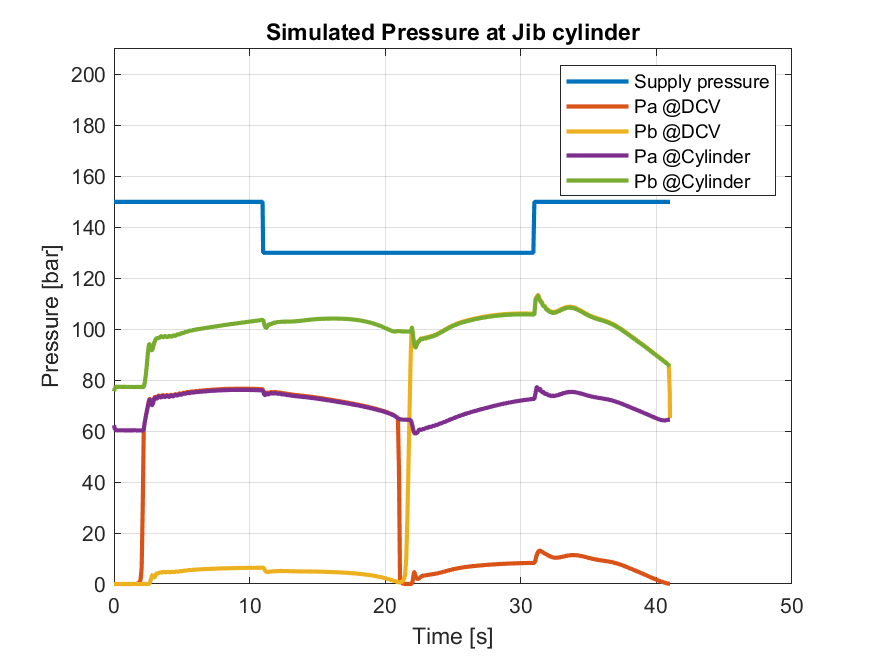
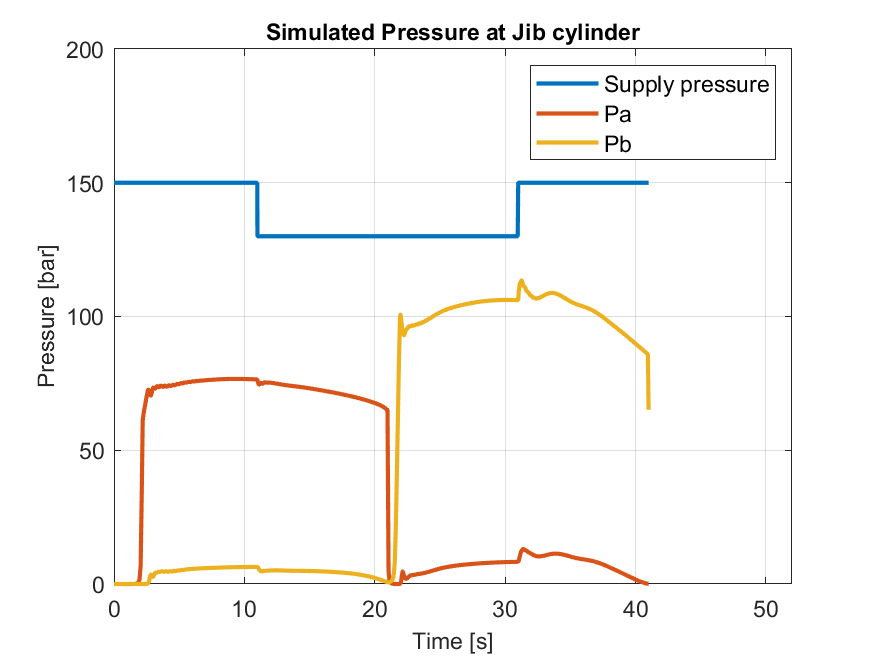
bilde

diff --git a/matlab/Simulink_plot_figsaver_responsetime.m b/matlab/Simulink_plot_figsaver_responsetime.m
@@ -1,0 +1,150 @@
+clc; clear; close all;
+file_path = 'Simulink_Data\';
+PNG_path = 'Simulink_figures\PNG\'; 
+EPS_path = 'Simulink_figures\EPS\';
+% 15
+file15 = "ResponseTimeTest_omega15_sinus_24042025";
+file_name15 = file_path+file15+'.mat';
+Data15 = load(file_name15);
+% 25
+file25 = "ResponseTimeTest_omega25_sinus_24042025";
+file_name25 = file_path+file25+'.mat';
+Data25 = load(file_name25);
+% 35 
+file35 = "ResponseTimeTest_omega35_sinus_24042025";
+file_name35 = file_path+file35+'.mat';
+Data35 = load(file_name35);
+
+
+%% Reading data
+
+Time = Data15.data{1}.Values.time;
+Time25 = Data25.data{1}.Values.Time;
+Time35 = Data35.data{1}.Values.Time;
+% Jib cylinder signals
+Jib15.Vref     = Data15.data{5}.Values.Data;
+Jib15.Vreal    = Data15.data{25}.Values.Data;
+Jib15.Error    = Data15.data{9}.Values.Data;
+% 25
+Jib25.Vref     = Data25.data{5}.Values.Data;
+Jib25.Vreal    = Data25.data{25}.Values.Data;
+Jib25.Error    = Data25.data{9}.Values.Data;
+% 35
+Jib35.Vref     = Data35.data{5}.Values.Data;
+Jib35.Vreal    = Data35.data{25}.Values.Data;
+Jib35.Error    = Data35.data{9}.Values.Data;
+
+%% Plotting Data
+set(0, 'DefaultLineLineWidth', 2);
+
+% Velocity (Vref vs Vreal)
+Jib_velocity = figure('Name','Velocity of Jib cylinder');
+plot(Time25, Jib25.Vref)
+hold on; grid on
+plot(Time25, Jib25.Vreal)
+title('Simulated Velocity of Jib cylinder')
+legend('V_{ref}', 'V_{real}')
+ylim([-0.1 0.1])
+
+
+% Error
+Jib_Error = figure('Name','Error of Jib cylinder');
+plot(Time25, Jib25.Error)
+hold on; grid on
+title('Simulated Error of Jib cylinder')
+legend('Error')
+ylim([-0.0045 0.0045])
+
+%% 
+% Gernral sub plot
+f = figure;
+f.Position = [50 50 1400 900];
+title('Jib cylinder')
+subplot(3,2,1)
+    plot(Time35, Jib35.Vref)
+    hold on; grid on
+    plot(Time35, Jib35.Vreal)
+    title('Cylinder velocity when ω = 3.5')
+    legend('V_{ref}', 'V_{real}')
+    xlim([-0.5 41.5])
+    ylim([-0.02 0.02])
+subplot(3,2,2)
+    plot(Time35, Jib35.Error)
+    hold on; grid on
+    title('Position error when ω = 3.5')
+    legend('Error')
+    xlim([-0.5 41.5])
+    ylim([-0.003 0.0048])
+subplot(3,2,3)
+    plot(Time25, Jib25.Vref)
+    hold on; grid on
+    plot(Time25, Jib25.Vreal)
+    title('Cylinder velocity when ω = 2.5')
+    legend('V_{ref}', 'V_{real}')
+    xlim([-0.5 41.5])
+    ylim([-0.02 0.02])
+    % ylim([-1 1])
+subplot(3,2,4)
+    plot(Time25, Jib25.Error)
+    hold on; grid on
+    title('Position error when ω = 2.5')
+    legend('Error')
+    xlim([-0.5 41.5])
+    ylim([-0.003 0.0048])
+subplot(3,2,5)
+    plot(Time, Jib15.Vref)
+    hold on; grid on
+    plot(Time, Jib15.Vreal)
+    title('Cylinder velocity when ω = 1.5')
+    legend('V_{ref}', 'V_{real}')
+    xlim([-0.5 41.5])
+    ylim([-0.02 0.02])
+subplot(3,2,6)
+    plot(Time, Jib15.Error)
+    hold on; grid on
+    title('Position error when ω = 1.5')
+    legend('Error')
+    xlim([-0.5 41.5])
+    ylim([-0.003 0.0048])
+sgt = sgtitle('Simulated slower system response time');
+fontsize(f,13,'points')
+sgt.FontSize = 20;
+
+%% Save images
+% % 
+% % %%%%%% MAIN %%%%%%%%
+% % % Save images Main
+% % Pressure
+% saveas(Main_pressure,PNG_path+file+'_Main_pressure.png') 
+% saveas(Main_pressure,EPS_path+file+'_Main_pressure.eps') 
+% 
+% % Control Signal
+% saveas(Main_ControlSignal,PNG_path+file+'_Main_ControlSignal.png')
+% saveas(Main_ControlSignal,EPS_path+file+'_Main_ControlSignal.eps')
+% 
+% % % Error
+% % saveas(Main_Error,PNG_path+file+'_Jib_Error.png')
+% % saveas(Main_Error,EPS_path+file+'_Jib_Error.eps') 
+% 
+% % % %%%%%% JIB %%%%%%%%
+% % % Save images Jib
+% % Pressure
+% saveas(Jib_pressure,PNG_path+file+'_Jib_pressure.png') 
+% saveas(Jib_pressure,EPS_path+file+'_Jib_pressure.eps') 
+% 
+% % Control Signal
+% saveas(Jib_ControlSignal,PNG_path+file+'_Jib_ControlSignal.png')
+% saveas(Jib_ControlSignal,EPS_path+file+'_Jib_ControlSignal.eps')
+% 
+% % % Error
+% % saveas(Jib_Error,PNG_path+file+'_Jib_Error.png')
+% % saveas(Jib_Error,EPS_path+file+'_Jib_Error.eps') 
+
+% % % Velocity
+% % saveas(Jib_velocity,PNG_path+file+'_Jib_velocity.png')
+% % saveas(Jib_velocity,EPS_path+file+'_Jib_velocity.eps') 
+
+
+% Velocity
+saveas(f,PNG_path+file+'_Jib_responsetime.png')
+% % saveas(f,EPS_path+file+'_Jib_responsetime.eps') 

diff --git a/matlab/Simulink_plot_figsaver_supply.m b/matlab/Simulink_plot_figsaver_supply.m
@@ -2,7 +2,7 @@ clc; clear; close all;
 file_path = 'Simulink_Data\';
 PNG_path = 'Simulink_figures\PNG\'; 
 EPS_path = 'Simulink_figures\EPS\Step\';
-file = "Simulink_Dual_StepPressure_24042025";
+file = "Simulink_Dual_StepPressure_down_24042025";
 file_name = file_path+file+'.mat';
 Data = load(file_name);
 
@@ -78,11 +78,12 @@ plot(Time, Main.PaDCV)   % Main Pressure at Directional Control Valve A port
 plot(Time, Main.Pb)      % Main Pressure at Directional Control Valve B port
 % plot(Time, Main.PaCyl)   % Main Pressure at Counter Balance Valve A port
 title('Simulated Pressure at Main cylinder')
-legend('Supply pressure', 'Pa @DCV', 'Pb @DCV', 'Pa @Cylinder')
+legend('Supply pressure', 'Pa', 'Pb')
 xlabel('Time [s]')
 ylabel('Pressure [bar]')
-xlim([0 50])
-ylim([0 210])
+fontsize(Main_pressure,11,'points')
+xlim([0 52])
+ylim([0 200])
 end 
 
 % Position (Xref vs Xreal)
@@ -104,8 +105,11 @@ hold on; grid on
 plot(Time, Main.Vreal)
 title('Simulated Velocity of Main cylinder')
 legend('V_{ref}', 'V_{real}')
-xlim([0 50])
-ylim([-0.015 0.02])
+xlabel('Time [s]')
+ylabel('Cylinder velocity [m/s]')
+fontsize(Main_velocity,11,'points')
+xlim([0 52])
+ylim([-0.015 0.015])
 end 
 
 % Control Signals (FF, PID, U)
@@ -147,8 +151,9 @@ title('Simulated Pressure at Jib cylinder')
 legend('Supply pressure', 'Pa', 'Pb')
 xlabel('Time [s]')
 ylabel('Pressure [bar]')
-xlim([0 50])
-ylim([0 215])
+fontsize(Jib_pressure,11,'points')
+xlim([0 52])
+ylim([0 200])
 end
 
 % Position (Xref vs Xreal)
@@ -170,8 +175,12 @@ hold on; grid on
 plot(Time, Jib.Vreal)
 title('Simulated Velocity of Jib cylinder')
 legend('V_{ref}', 'V_{real}')
-xlim([0 50])
-ylim([-0.02 0.025])
+xlabel('Time [s]')
+ylabel('Cylinder velocity [m/s]')
+% Cylinder velocity m/s
+fontsize(Jib_velocity,11,'points')
+xlim([0 52])
+ylim([-0.022 0.02])
 end
 
 % Control Signals (FF, PID, U)
